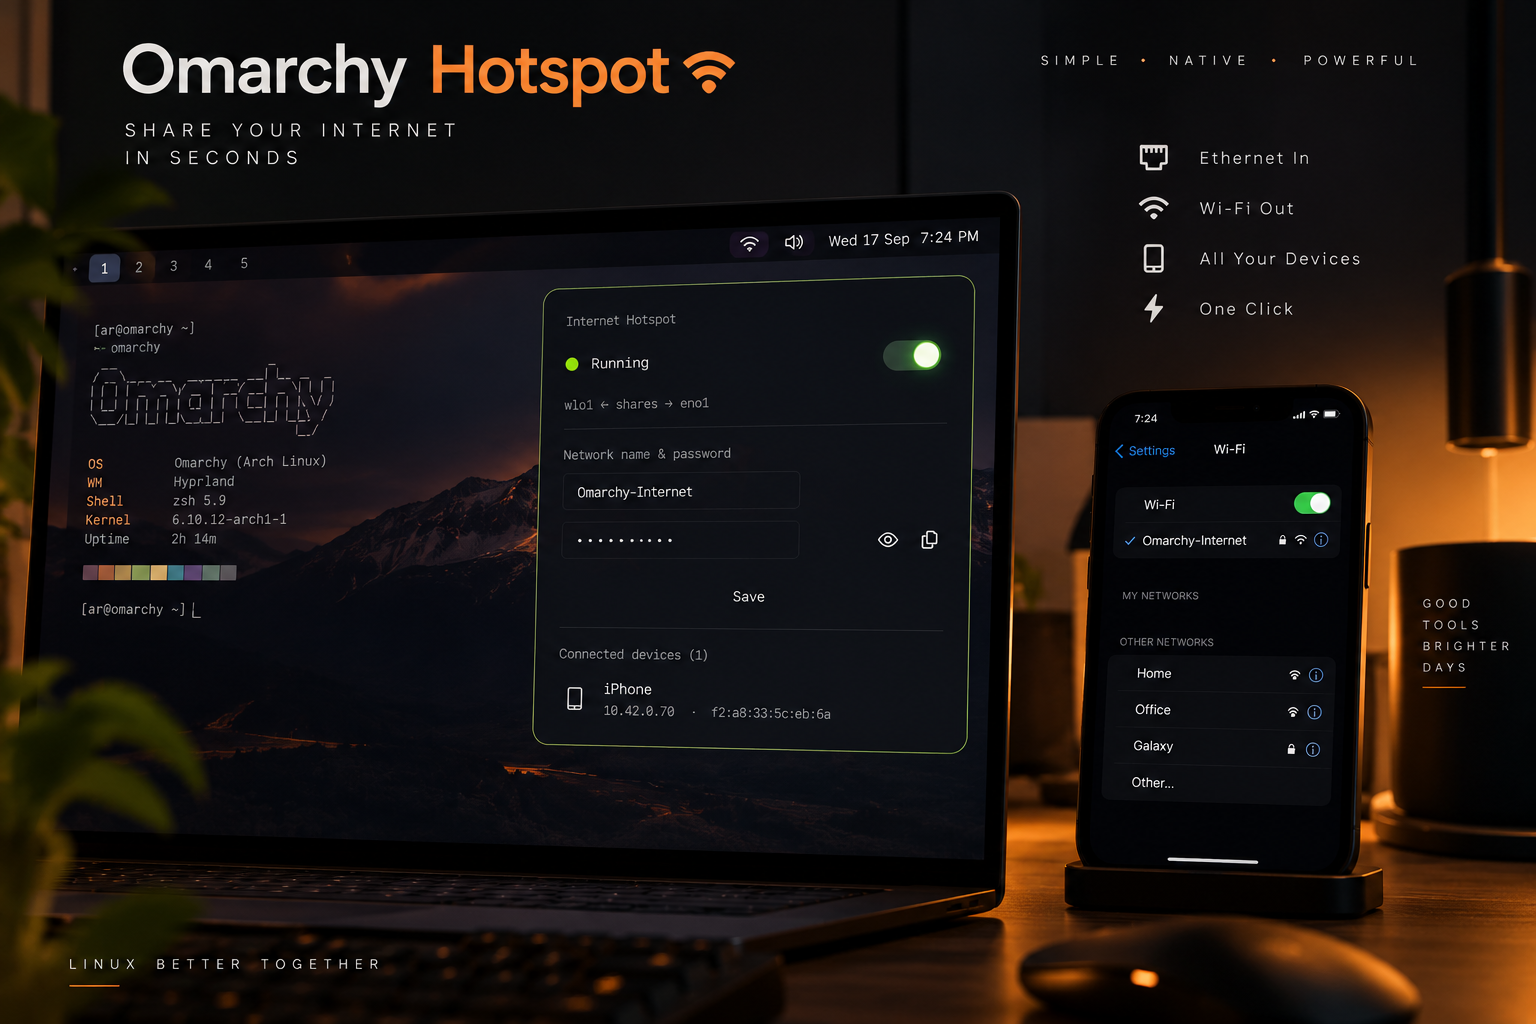
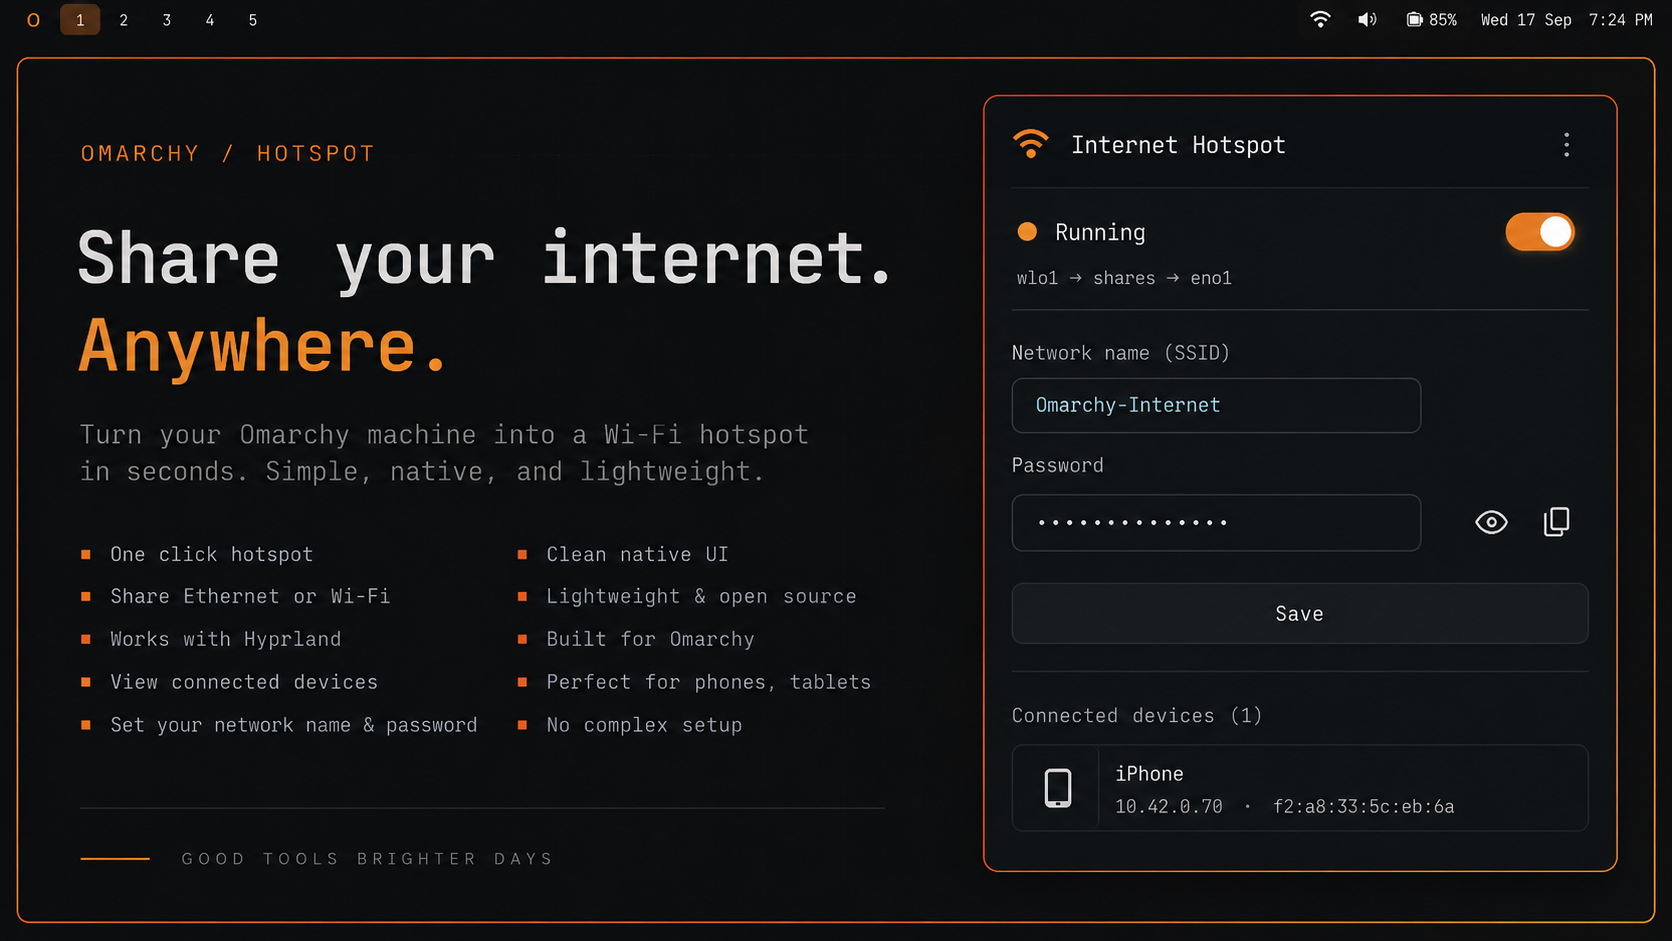
Update preview image and embed it in README
The repo had a preview.png but nothing referenced it, so it never
showed up when opening the repo on GitHub.

diff --git a/README.md b/README.md
@@ -1,5 +1,7 @@
 # Internet Hotspot — Omarchy plugin
 
+<img src="preview.png" alt="The Internet Hotspot panel open in the Omarchy bar, showing the running toggle, SSID/password fields, and a connected device" width="720">
+
 Turns your laptop into a Wi-Fi hotspot that shares its Ethernet internet
 connection, from a bar widget. No terminal needed after install.
 
